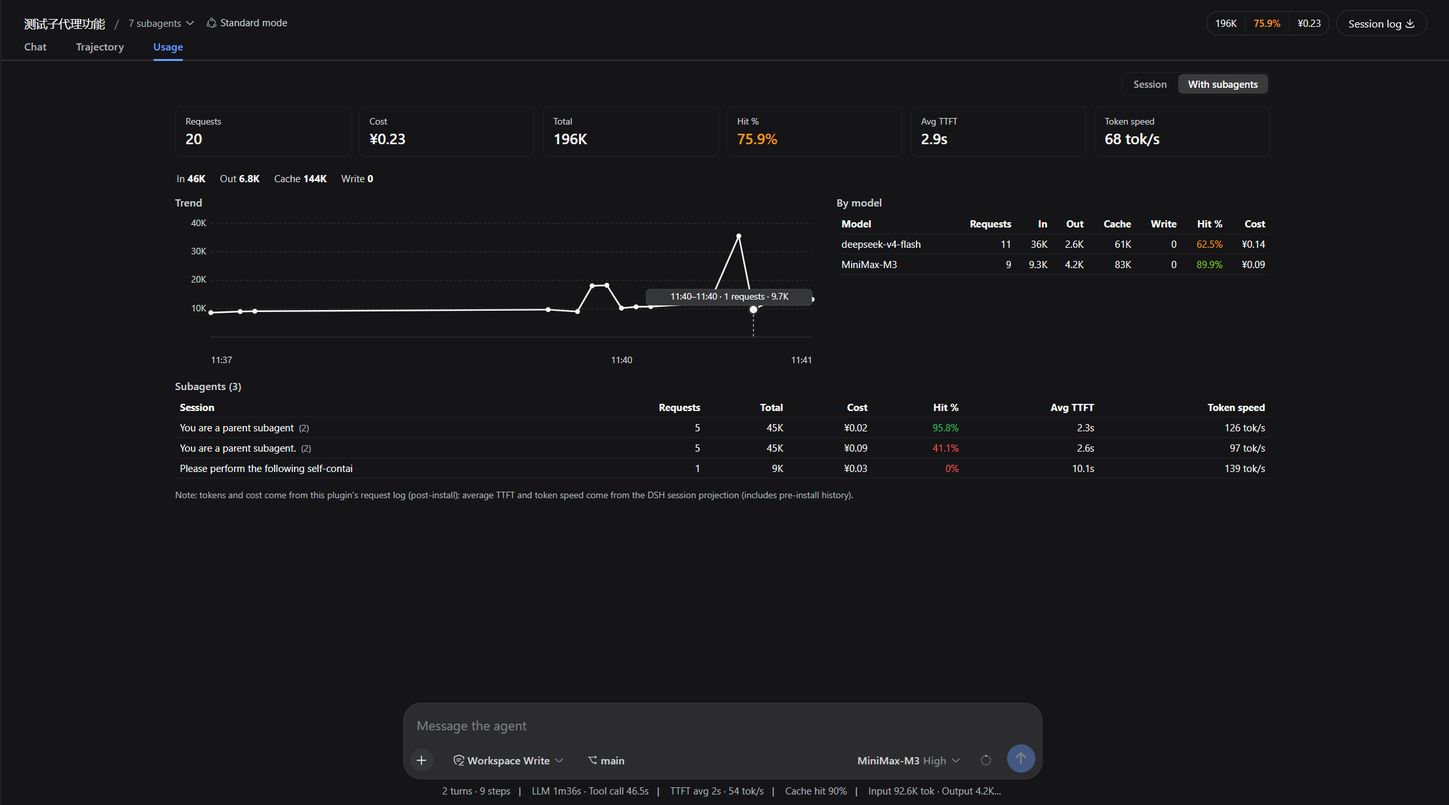
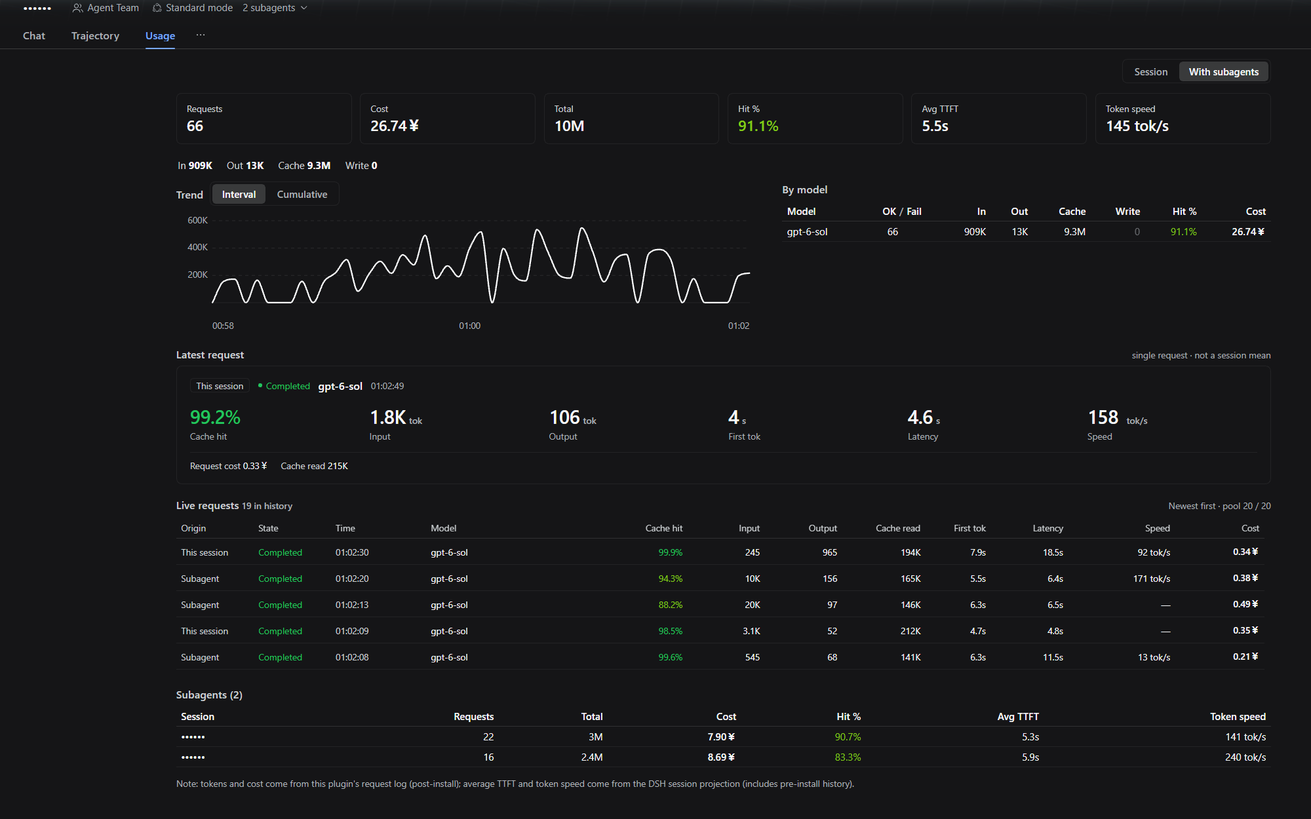
docs(readme): 更新界面截图与功能说明匹配大屏改版
- README.md / README.zh.md: 首图换成用量大屏，导语改述「侧栏入口大屏 + 设置四页签」两处入口
- README.md / README.zh.md: 功能列表按新语义重写——辅助请求归属规则、请求数卡失败/开销徽章、四页签明细、大屏四看板、分时/累计趋势、实时请求池、定价表别名关联页签
- README.md / README.zh.md: 设置入口路径由「设置 → 插件 → Token 用量」修正为「设置 → Token 用量」（设置侧栏里 Token 用量是顶级项，无「插件」一级）
- docs/images: 新增 settings-usage 与 pricing-table 中英文配图
- docs/images: token-usage、usage-tab、model-price 中英文图按新界面重拍
- docs/images: 隐私打码改为 DOM 文本替换（数据目录、会话标题、用户名统一掩码），大屏与会话页裁掉侧边栏
- screenshots.json: 第 3 张换成 pricing-table_zh
- scripts/crop-shots.ps1: 新增可复用的截图裁剪脚本，支持单张与批量参数化
- docs/decisions/implemented/2026-08-28-market-screenshots.md: 同步市场截图清单的事实变化

背景：插件完成了一轮界面改版（侧栏常驻 Token 用量入口的全宽大屏、四页签明细、会话页实时请求池、定价表总览弹窗），README 与市场截图仍指向改版前的界面，功能描述也已与实际界面脱节；旧截图取自真实浏览器实例，带着真实数据目录、侧栏会话列表与账号名。
决策记录 docs/decisions/implemented/2026-10-26-readme-screenshot-refresh.md 同提交。

diff --git a/README.md b/README.md
@@ -2,11 +2,11 @@
 
 [![awesome · DSH plugin](https://awesome-dsh-plugin.com/badge.svg)](https://awesome-dsh-plugin.com)
 
-![Token Usage stats page](docs/images/token-usage.png)
+![Token Usage dashboard](docs/images/token-usage.png)
 
 [简体中文](./README.zh.md) | English
 
-A dsh usage plugin that displays model token usage right in the Web UI. After installation, open **Settings** (the gear icon in the sidebar) and you'll find the **Token Usage** page — overview cards (with cost), a trend chart, project / model / session / runtime-overhead detail views, and per-model pricing dialogs. The sidebar's **More** menu also opens the same statistics in a full-width main-column dashboard. Both surfaces share date-range and model filters; a single-day range uses an hourly trend and wider ranges use daily points.
+A dsh usage plugin that displays model token usage right in the Web UI. The sidebar's **Token Usage** entry opens a full-width dashboard — summary cards (with cost), a trend chart, and four detail boards (projects / sessions / models / runtime overhead); the same statistics live in **Settings → Token Usage** behind four detail tabs. Both surfaces share date-range and model filters; a single-day range uses an hourly trend and wider ranges use daily points.
 
 [dsh]: https://github.com/cordiverse/dsh
 
@@ -23,15 +23,22 @@ Repo: <https://github.com/LaoYueHanNi/dsh-token-usage>
 
 ## Features
 
-- **Live recording**: every provider-billed model call is recorded as it happens — tokens, cost, model, session — conversation requests, context-compaction calls, and auxiliary system calls included: the Auto review authorization reviewer, session-title generation, and reasoning translation. Auxiliary calls bill into the totals and the model breakdown, while the **Runtime overhead** tab in the detail switch splits them out by kind; they carry no session, so the session breakdown stays conversation-only. That history cannot be backfilled — the host keeps no usage record of those calls, and recording starts with the first request after upgrading.
-- **Web stats page**: filters (date range + model + `1d`/`7d`/`30d` shortcuts), eight compact summary cards in two rows in Settings, and a trend chart (hourly for one day, daily for wider ranges; hover a point for its total). The detail block switches between **projects / models / sessions / runtime overhead**. Project rows aggregate every matching root session before the session list is capped; directory-tail grouping intentionally merges folders with the same final segment. Rows sort by total tokens or cost (sessions also by last activity), and **Ctrl+click** on a listed session row opens that conversation (the host restores its last-selected view tab). The runtime-overhead view breaks auxiliary calls down by kind.
-- **Main-column dashboard**: the sidebar's **More → Token Usage** entry opens the same filters and metrics in a four-card dashboard (projects / sessions, models / runtime overhead). The cards collapse to one column when the available content width is narrow; **Pin to sidebar** in the settings card moves the entry out of the More menu into a resident sidebar row (switch it off to move it back) — the two never coexist.
+- **Live recording**: every provider-billed model call is recorded as it happens — tokens, cost, model, session — conversation requests, context-compaction calls, and auxiliary system calls included: the Auto review authorization reviewer, session-title generation, and reasoning translation. Auxiliary calls bill into the totals and the model breakdown. The ones the host proves belong to a session (session-title generation) also join that session's totals, trend and request pool, tagged with their kind; the rest stay global and are broken out by kind in the **Runtime overhead** board. That history cannot be backfilled — the host keeps no usage record of those calls, and recording starts with the first request after upgrading.
+- **Web stats page**: filters (date range + model + `1d`/`7d`/`30d` shortcuts), eight compact summary cards in two rows, and a trend chart (hourly for one day, daily for wider ranges; hover a point for its total). The request card carries **failed** and **overhead** pills. The detail block is a four-tab switcher — **projects / models / sessions / runtime overhead** — sharing the dashboard's row layout: project rows aggregate every matching root session before the session list is capped; directory-tail grouping intentionally merges folders with the same final segment. Rows sort by total tokens or cost (sessions also by last activity), and **Ctrl+click** on a listed session row opens that conversation (the host restores its last-selected view tab). The runtime-overhead tab breaks auxiliary calls down by kind.
+
+![Token Usage settings page](docs/images/settings-usage.png)
+
+- **Main-column dashboard**: the sidebar's **Token Usage** entry opens the same metrics as a four-board dashboard (projects / sessions, models / runtime overhead). The boards collapse to one column when the available content width is narrow; **Pin to sidebar** in the settings card moves the entry out of the **More** menu into a resident sidebar row (switch it off to move it back) — the two never coexist.
 - **Model performance view**: the model list can switch from usage to mean output speed, time to first token, and request latency. Untimed requests do not enter performance evaluation; speed and first-token means use streaming samples, and models with fewer than five streaming samples are marked rather than ranked. Historical timing is backfilled automatically when the rollup format changes.
-- **Session usage tab**: the conversation pane gains a **Usage** view tab (beside Chat / Trajectory) with the active session's dashboard — six stat cards (successful requests with a failure pill, cost, cache hit rate, average time-to-first-token, generation throughput, total tokens), a 4-bucket token strip, an hourly trend chart, and a per-model table. A scope switch toggles **Session / With subagents**, and the subagent table drills into each child and back. Hovering the failure pill breaks failures down per class (rate limited, server error, context exceeded, …).
+- **Session usage tab**: the conversation pane gains a **Usage** view tab (beside Chat / Trajectory) with the active session's dashboard — six stat cards (successful requests with a failure pill, cost, cache hit rate, average time-to-first-token, generation throughput, total tokens), a 4-bucket token strip, a trend chart (per-interval or cumulative), and a per-model table. A scope switch toggles **Session / With subagents**, and the subagent table drills into each child and back. Hovering the failure pill breaks failures down per class (rate limited, server error, context exceeded, …).
+- **Live request pool**: the same tab adds a **Latest request** panel (cache hit, input, output, first token, latency, speed — cost and cache buckets demoted to the footer) and a **Live requests** table (up to 19 earlier rows; origin, state, time, model, cache hit, input, output, cache read, first token, latency, speed, cost). Waiting, streaming, failed and cancelled requests are visible while they run, every provider attempt is its own row, and a low cache-hit rate is flagged inline with an explanation.
 
 ![Session Usage tab](docs/images/usage-tab.png)
 
-- **Cost figures & model pricing**: per-request cost is computed live from per-model rates (¥ per million tokens); unpriced models warn and count as ¥0. Click a priced model name in the dashboard to open its full price table; holding Ctrl while clicking a priced model filters the view to that model. The filter row carries a **pricing table** entry opening an overview of every model in the cloud feed — searchable, with simulated billing and expandable effective rates. Rates sync from the cloud feed on every startup — see [Model pricing](#model-pricing).
+- **Cost figures & model pricing**: per-request cost is computed live from per-model rates (¥ per million tokens); unpriced models warn and count as ¥0. Click a priced model name in the dashboard to open its full price table; holding Ctrl while clicking a priced model filters the view to that model. The filter row carries a **pricing table** entry opening an overview of every model in the cloud feed — searchable, with simulated billing and expandable effective rates; a second tab manages the local alias→model associations and lets you revoke them. Rates sync from the cloud feed on every startup — see [Model pricing](#model-pricing).
+
+![Pricing table](docs/images/pricing-table.png)
+
 - **Provider quota**: an input-bar button (left of the model chip) shows the selected provider's remaining quota. See [Provider quota](#provider-quota).
 - **History backfill**: the first startup syncs requests that happened before installation (idempotent); unreadable session logs are skipped and counted, never fatal to the sync.
 
@@ -43,7 +50,7 @@ Costs are billed per record at its own timestamp. Identification or pricing-rule
 
 ### Data directory
 
-Editable on the web card (**Settings → Plugins → Token Usage**): saving an absolute path takes effect immediately — history migrates automatically, no restart, no manual move. Blank keeps the default `~/.dsh/token-usage/`. A save is refused while a conversation is in progress; wait for it to end, then save again. Or set it directly:
+Editable on the web card (**Settings → Token Usage**): saving an absolute path takes effect immediately — history migrates automatically, no restart, no manual move. Blank keeps the default `~/.dsh/token-usage/`. A save is refused while a conversation is in progress; wait for it to end, then save again. Or set it directly:
 
 ```yml
 plugins:

diff --git a/README.zh.md b/README.zh.md
@@ -2,11 +2,11 @@
 
 [![awesome · DSH plugin](https://awesome-dsh-plugin.com/badge.svg)](https://awesome-dsh-plugin.com)
 
-![Token 用量统计页](docs/images/token-usage_zh.png)
+![Token 用量大屏](docs/images/token-usage_zh.png)
 
 简体中文 | [English](./README.md)
 
-一个 [dsh] 用量插件：在 Web 界面直接展示模型 token 用量。安装后打开**设置**（侧栏底部齿轮），即可看到「Token 用量」页 —— 汇总卡片（含费用）、趋势图、按项目 / 按模型 / 按会话 / 运行开销明细与定价弹窗。侧栏「**更多**」菜单还可在主列打开同一统计页。两处共用日期区间和模型筛选；单日区间显示按小时趋势，更宽区间显示按日趋势。
+一个 [dsh] 用量插件：在 Web 界面直接展示模型 token 用量。侧栏「Token 用量」入口打开全宽大屏 —— 汇总卡片（含费用）、趋势图与四块明细看板（项目 / 会话 / 模型 / 运行开销）；同一份统计也在**设置 → Token 用量**里，以四个明细页签呈现。两处共用日期区间和模型筛选；单日区间显示按小时趋势，更宽区间显示按日趋势。
 
 [dsh]: https://github.com/cordiverse/dsh
 
@@ -23,15 +23,22 @@
 
 ## 功能
 
-- **实时记录**：每一次 provider 计费调用发生即记录——token、费用、模型、会话；主对话请求、上下文压缩调用与系统辅助调用（自动审查、会话标题生成、推理翻译）都计入。辅助调用计入总量和按模型明细，同时在明细切换的**运行开销**页签按类别单独拆出；它们不归属任何会话，因此按会话明细只统计对话请求。这部分历史无法回补——宿主不保存这些调用的用量记录，升级后的第一个请求才开始记录。
-- **Web 统计页**：过滤条（日期区间 + 模型下拉 + `1d`/`7d`/`30d` 快捷区间）、设置内固定两行的八张紧凑汇总卡片和趋势图（单日按小时、更宽区间按日，悬停查看点位总量）。明细区可在**按项目 / 按模型 / 按会话 / 运行开销**间切换。项目行在会话列表截断前聚合全部匹配的顶层会话；目录尾段相同的工作区会合并。各行可按总 token 或费用排序（会话另支持最近活跃），**Ctrl+点击**可打开宿主列表中的会话（宿主恢复该会话上次选择的页签）；运行开销按类别列出辅助调用的次数、费用与 token。
-- **侧边栏「更多」入口**：左侧栏「更多」菜单内新增「Token 用量」行，点击在主列直接打开四卡大屏（项目 / 会话、模型 / 运行开销）；可用宽度较窄时卡片自动改单列。在设置卡片开启**「常驻侧边栏」**后，入口移出「更多」菜单、改为左侧栏的固定一行（关闭即移回「更多」菜单），两处互斥不重复。
+- **实时记录**：每一次 provider 计费调用发生即记录——token、费用、模型、会话；主对话请求、上下文压缩调用与系统辅助调用（自动审查、会话标题生成、推理翻译）都计入。辅助调用计入总量和按模型明细；其中宿主能证明归属到某个会话的（会话标题生成）额外计入该会话的总量、趋势与请求池，并在模型旁标出类别；其余保持全局口径，在**运行开销**看板按类别单独拆出。这部分历史无法回补——宿主不保存这些调用的用量记录，升级后的第一个请求才开始记录。
+- **Web 统计页**：过滤条（日期区间 + 模型下拉 + `1d`/`7d`/`30d` 快捷区间）、固定两行的八张紧凑汇总卡片和趋势图（单日按小时、更宽区间按日，悬停查看点位总量）。请求数卡片带「失败」与「开销」两个徽章。明细区是四页签切换——**按项目 / 按模型 / 按会话 / 运行开销**——与大屏共用同一套行布局：项目行在会话列表截断前聚合全部匹配的顶层会话；目录尾段相同的工作区会合并。各行可按总 token 或费用排序（会话另支持最近活跃），**Ctrl+点击**可打开宿主列表中的会话（宿主恢复该会话上次选择的页签）；运行开销页签按类别列出辅助调用的次数、费用与 token。
+
+![设置内的 Token 用量页](docs/images/settings-usage_zh.png)
+
+- **主列大屏**：侧栏「Token 用量」入口把同一份指标铺成四块看板（项目 / 会话、模型 / 运行开销）；可用宽度较窄时看板自动改单列。在设置卡片开启**「常驻侧边栏」**后，入口移出「更多」菜单、改为左侧栏的固定一行（关闭即移回「更多」菜单），两处互斥不重复。
 - **模型性能视图**：模型列表可切换为平均输出速度、首 token 延迟和请求耗时。无计时请求不参与性能评价；速度和首 token 均值只取流式样本，少于五个流式样本的模型标记为样本不足、不参与排名。汇总格式变化后自动从历史记录回填已有计时，无需手动清缓存。
-- **会话用量页签**：对话面板新增「用量」视图页签（与聊天 / 轨迹并列），展示当前会话的 dashboard —— 六张数值卡（成功请求数带失败胶囊、费用、缓存命中率、首 token 平均延迟、出字速度、总 token）+ 四项 token 明细条 + 按小时趋势图 + 按模型表。「本会话 / 含子会话」一键切换范围，子会话表逐行钻取并可逐级返回。悬停失败胶囊可看按失败类别的明细（限流 / 网络异常 / 上下文超限 等逐一计数）。
+- **会话用量页签**：对话面板新增「用量」视图页签（与聊天 / 轨迹并列），展示当前会话的 dashboard —— 六张数值卡（成功请求数带失败胶囊、费用、缓存命中率、首 token 平均延迟、出字速度、总 token）+ 四项 token 明细条 + 趋势图（分时 / 累计切换）+ 按模型表。「本会话 / 含子会话」一键切换范围，子会话表逐行钻取并可逐级返回。悬停失败胶囊可看按失败类别的明细（限流 / 网络异常 / 上下文超限 等逐一计数）。
+- **实时请求池**：同一页签还提供「最新请求」面板（缓存命中、输入、输出、首字、耗时、速度六项主指标，费用与缓存读写降级到面板底部）与「实时请求」表（最多 19 条历史：来源、状态、时间、模型、缓存命中、输入、输出、缓存读、首字、耗时、速度、费用）。等待、生成中、失败与已取消的请求在运行过程中即可见，每次 provider 尝试各占一行，缓存命中偏低时在行内标出并给出解释。
 
 ![会话用量页签](docs/images/usage-tab_zh.png)
 
-- **费用统计与模型定价**：按模型单价（¥/百万 token）逐条实时计费，未定价模型高亮提示（费用按 ¥0 计）。点击看板中有定价的模型名，弹窗展示该模型的完整价格表；按住 Ctrl 点击有定价的模型名可只看该模型；过滤条行尾另有**「定价表」**入口，弹窗内可浏览云端定价的全部模型——搜索、模拟计费、展开当前生效价。价格每次启动自动从云端同步——详见「[模型定价](#模型定价)」。
+- **费用统计与模型定价**：按模型单价（¥/百万 token）逐条实时计费，未定价模型高亮提示（费用按 ¥0 计）。点击看板中有定价的模型名，弹窗展示该模型的完整价格表；按住 Ctrl 点击有定价的模型名可只看该模型；过滤条行尾另有**「定价表」**入口，弹窗内可浏览云端定价的全部模型——搜索、模拟计费、展开当前生效价，第二个页签管理本地的「模型别名 → 模型」关联并可撤销。价格每次启动自动从云端同步——详见「[模型定价](#模型定价)」。
+
+![定价表](docs/images/pricing-table_zh.png)
+
 - **供应商配额**：输入栏模型选择器左侧的配额按钮，跟随当前选中的供应商展示套餐余量。详见「[供应商配额](#供应商配额)」。
 - **历史补齐**：首次启动自动同步安装前已发生的请求（幂等）；无法解析的会话日志跳过并计数，绝不中断同步。
 
@@ -43,7 +50,7 @@
 
 ### 数据目录
 
-在 Web 卡片（**设置 → 插件 → Token 用量**）里修改：保存绝对路径**立即生效**——历史数据自动迁移，无需重启、无需手动搬数据。留空保持默认 `~/.dsh/token-usage/`。对话进行中时保存会被拒绝，等对话结束再保存即可。也可用配置直接指定：
+在 Web 卡片（**设置 → Token 用量**）里修改：保存绝对路径**立即生效**——历史数据自动迁移，无需重启、无需手动搬数据。留空保持默认 `~/.dsh/token-usage/`。对话进行中时保存会被拒绝，等对话结束再保存即可。也可用配置直接指定：
 
 ```yml
 plugins:

diff --git a/docs/decisions/implemented/2026-10-26-readme-screenshot-refresh.md b/docs/decisions/implemented/2026-10-26-readme-screenshot-refresh.md
@@ -1,0 +1,30 @@
+# DR: README 与市场截图随用量大屏改版整体刷新
+
+Status: implemented
+
+## Problem
+
+插件在 0.4.x 期间完成了一轮界面改版：侧栏新增常驻「Token 用量」入口并打开全宽用量大屏（大屏与设置区共用四个明细页签：项目 / 会话 / 模型 / 运行开销）、会话用量页签新增实时请求池与分时 / 累计趋势、过滤条新增「定价表」总览弹窗（含模型别名关联页签）、请求数卡新增失败与开销徽章。仓库根 `screenshots.json` 声明的市场截图清单（[DR: 声明插件市场截图清单](2026-08-28-market-screenshots.md)）与两份 README 仍指向改版前的界面：首图是旧统计页、功能列表描述的是旧语义、设置入口路径写成了并不存在的「设置 → 插件 → Token 用量」层级，而 `model-price_zh.png` 是旧界面里叠加在设置页上的整屏截图——里面有真实数据目录、侧栏工作区与会话标题、账号名。
+
+截图素材来自用户真实浏览器的 dsh Web 实例（含真实用量数据与真实会话），直接落库会泄露隐私。
+
+## Decision
+
+- **README 重写**：`README.md` 与 `README.zh.md` 首图换成用量大屏；导语改述「侧栏入口大屏 + 设置四页签」两处入口；功能列表按新语义重写——实时记录的辅助请求归属规则（有宿主证据归属会话的计入该会话，其余全局按类别拆出）、请求数卡的失败 / 开销徽章、四页签明细、大屏四看板与常驻侧边栏入口、会话页签的分时 / 累计趋势、实时请求池、定价表弹窗（含别名关联页签）。新增两张配图：`docs/images/settings-usage_zh.png`（设置内 Token 用量页）与 `docs/images/pricing-table_zh.png`（定价表总览弹窗），英文版对应 `settings-usage.png` / `pricing-table.png`。
+- **打码用 DOM 文本替换，不做图像涂抹**：通过浏览器 `evaluate` + `TreeWalker` 遍历文本节点，就地替换后再截图。数据目录 `D:\document\dsh-token-usage` → `~/.dsh/token-usage`（正则必须写 `/[A-Za-z]:\\[^\s]*/g`，即要求冒号后紧跟反斜杠，否则会误伤英文文案 `Data directory:` 的结尾字母）；主会话标题、子会话表里的各条子会话标题与用户名「忆到江南时」→ `••••••`。图像涂抹会留下涂抹痕迹且无法保证覆盖到位，DOM 替换产出的图与真实界面完全一致。
+- **侧边栏靠裁剪去除**：大屏与会话页原图含工作区列表与会话列表，直接整块裁掉（大屏裁剪框 `(630,0,1640,1300)`、会话页 `(350,20,2000,1250)`）；设置页与定价表用元素级截图，无需裁剪。裁剪脚本 `scripts/crop-shots.ps1` 保留在仓库里，改为参数化（`-In`/`-Out`/`-Rect` 单张处理，或 `-Jobs` 批量 JSON 任务表），后续再更新截图可直接复用。
+- **市场截图清单同步**：第 3 张由 `model-price_zh.png` 换成 `pricing-table_zh.png`——单模型价格表是一条约 791×180 的窄条，作为市场轮播第三屏展示力不足，定价表总览弹窗（941×868）更能说明定价能力。`model-price_zh.png` 与 `model-price.png` 本身仍然更新为单模型价格表的元素级截图（中文 / 英文各一张），不删图。
+- **设置路径按实际界面修正**：README 中的 `Settings → Plugins → Token Usage` / `设置 → 插件 → Token 用量` 改为 `Settings → Token Usage` / `设置 → Token 用量`——设置侧栏里「Token 用量」是顶级项，没有「插件」这一级。
+- **界面语言随截图切换**：中文截图在中文界面采集，英文截图把 dsh 界面语言切到 English 后采集，采集完切回中文；英文界面下模型名按钮的 `aria-label` 是 `View rates for <模型>`，中文界面是 `查看 <模型> 定价`。
+
+## Alternatives considered
+
+- **图像涂抹打码（矩形 / 马赛克）** —— 放弃：涂抹痕迹明显、边角容易漏出字符，且同一张图反复涂抹后无法验证是否全覆盖；DOM 文本替换既能保证替换干净，也能让截图与真实界面完全一致。
+- **保留旧的 `model-price_zh.png` 整屏截图** —— 放弃：那张图里带着旧设置页的真实数据目录、侧栏会话列表与账号名，与本轮「无隐私」的截图标准冲突；重拍成元素级截图后既干净又能只讲价格表本身。
+- **市场清单里换成英文界面截图** —— 放弃：沿用既有约定，dsh-market 的界面与主要用户群是中文；中英文两套 README 各自的配图已各自成对，英文版图仍保留在仓库中。
+- **用 Python 处理图片（裁剪 / 打码）** —— 放弃：本机 Python 无写文件权限，任何图片处理脚本一落盘就 PermissionError；改用 PowerShell `System.Drawing` 完成裁剪。
+
+## Consequences
+
+- 代价：README 与截图必须在每次界面改版后重新采集与打码，是持续成本；打码规则（哪些文本要替换）靠人工约定，没有自动化校验——本轮就漏过一次：主会话标题已打码，会话页「子会话」表里的子会话标题却仍在图上，需靠逐张复核才发现。
+- 换来：README 描述与实际界面一致，读者按图索骥能对上；市场截图清单与 README 指向同一批新图；全部图片不再包含真实路径、账号、会话标题等隐私信息。

diff --git a/docs/decisions/implemented/2026-08-28-market-screenshots.md b/docs/decisions/implemented/2026-08-28-market-screenshots.md
@@ -8,7 +8,7 @@ dsh-market 详情页按仓库根 `screenshots.json` 展示 AppStore 式截图（
 
 ## Decision
 
-仓库根新增 `screenshots.json`（数组形式，路径相对仓库根），列出 5 张 `docs/images/` 下的**中文界面**截图，顺序按卖点主次：统计页（`token-usage_zh`）→ 会话用量页签（`usage-tab_zh`）→ 模型定价弹窗（`model-price_zh`）→ 智谱 GLM 配额（`zhipu-plan-usage_zh`）→ OpenCode Go 配额（`opencode-go-plan-usage_zh`）。之后更新截图只需推送本仓库，市场下一次 nightly 构建自动生效，无需向 awesome-dsh-plugin 提 PR。
+仓库根新增 `screenshots.json`（数组形式，路径相对仓库根），列出 5 张 `docs/images/` 下的**中文界面**截图，顺序按卖点主次：用量大屏（`token-usage_zh`）→ 会话用量页签（`usage-tab_zh`）→ 定价表总览弹窗（`pricing-table_zh`）→ 智谱 GLM 配额（`zhipu-plan-usage_zh`）→ OpenCode Go 配额（`opencode-go-plan-usage_zh`）。之后更新截图只需推送本仓库，市场下一次 nightly 构建自动生效，无需向 awesome-dsh-plugin 提 PR。
 
 ## Alternatives considered
 
@@ -19,4 +19,4 @@ dsh-market 详情页按仓库根 `screenshots.json` 展示 AppStore 式截图（
 ## Consequences
 
 - 代价：`screenshots.json` 与 `docs/images/` 的文件名耦合，截图改名或删除须同步维护该清单；市场展示统一为中文界面，非中文用户看到的截图是中文。
-- 换来：市场详情页的截图选取与顺序完全可控（首图即核心卖点的统计页），不再依赖 README 抽取的回退行为。
+- 换来：市场详情页的截图选取与顺序完全可控（首图即核心卖点的用量大屏），不再依赖 README 抽取的回退行为。
